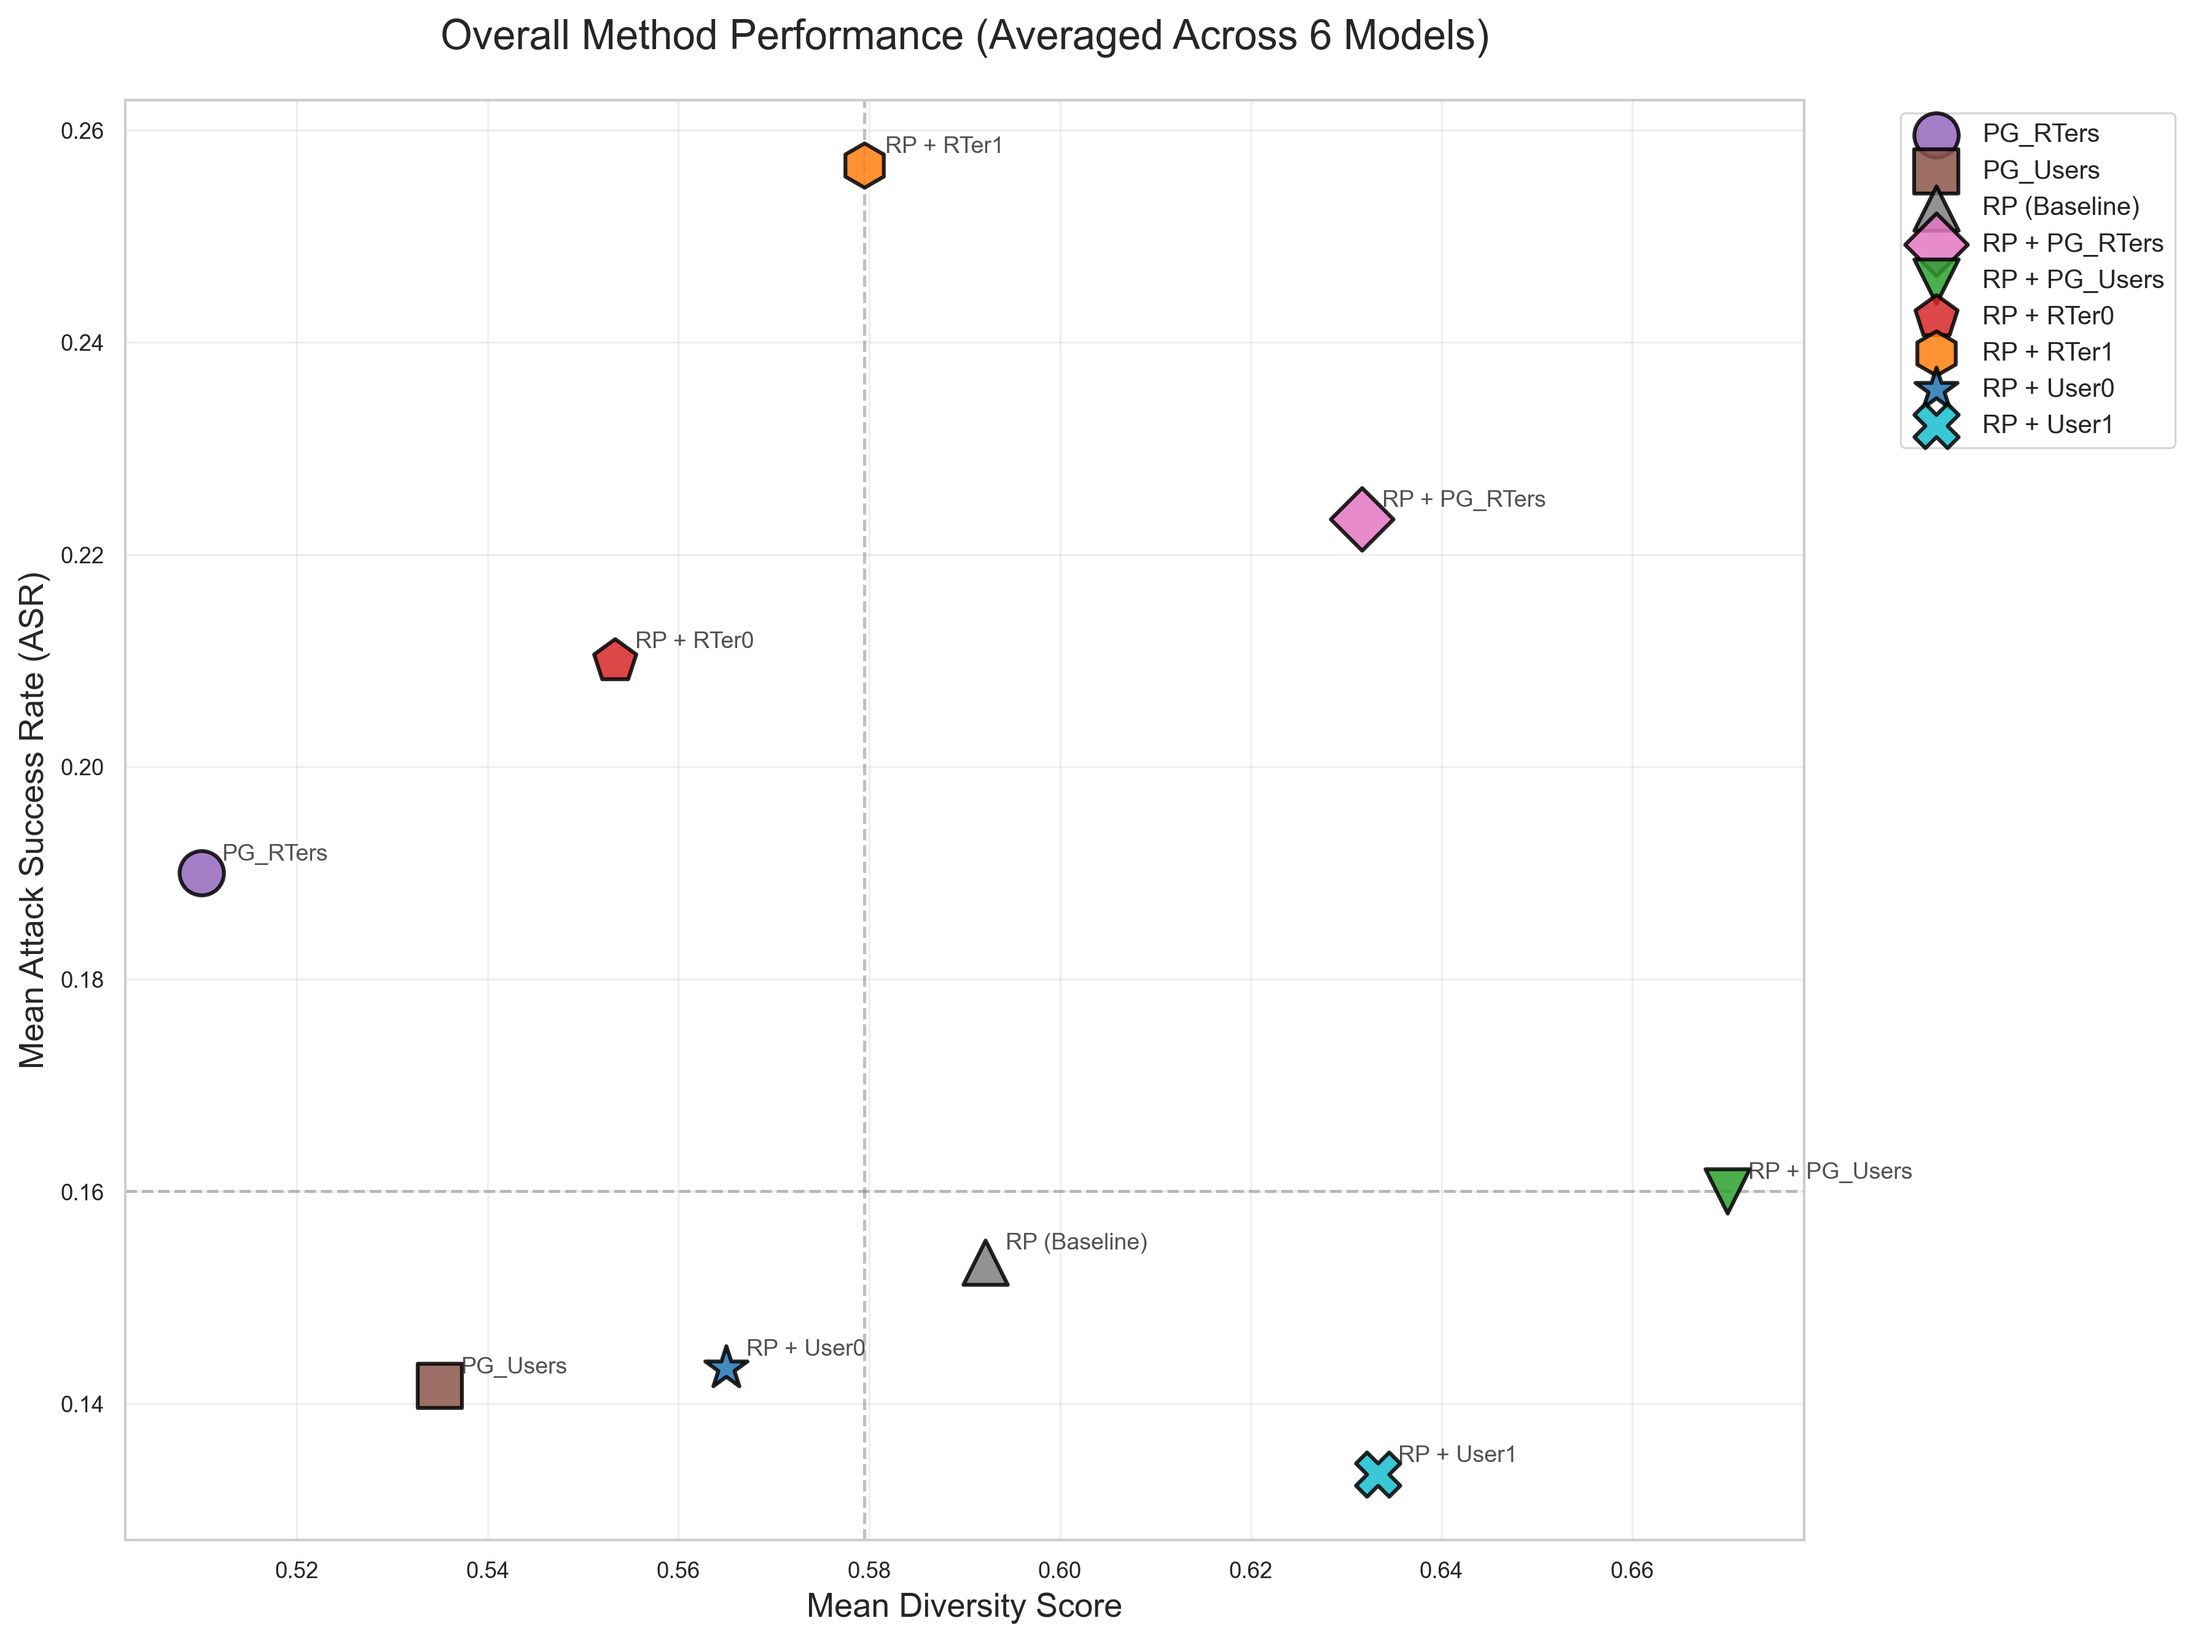
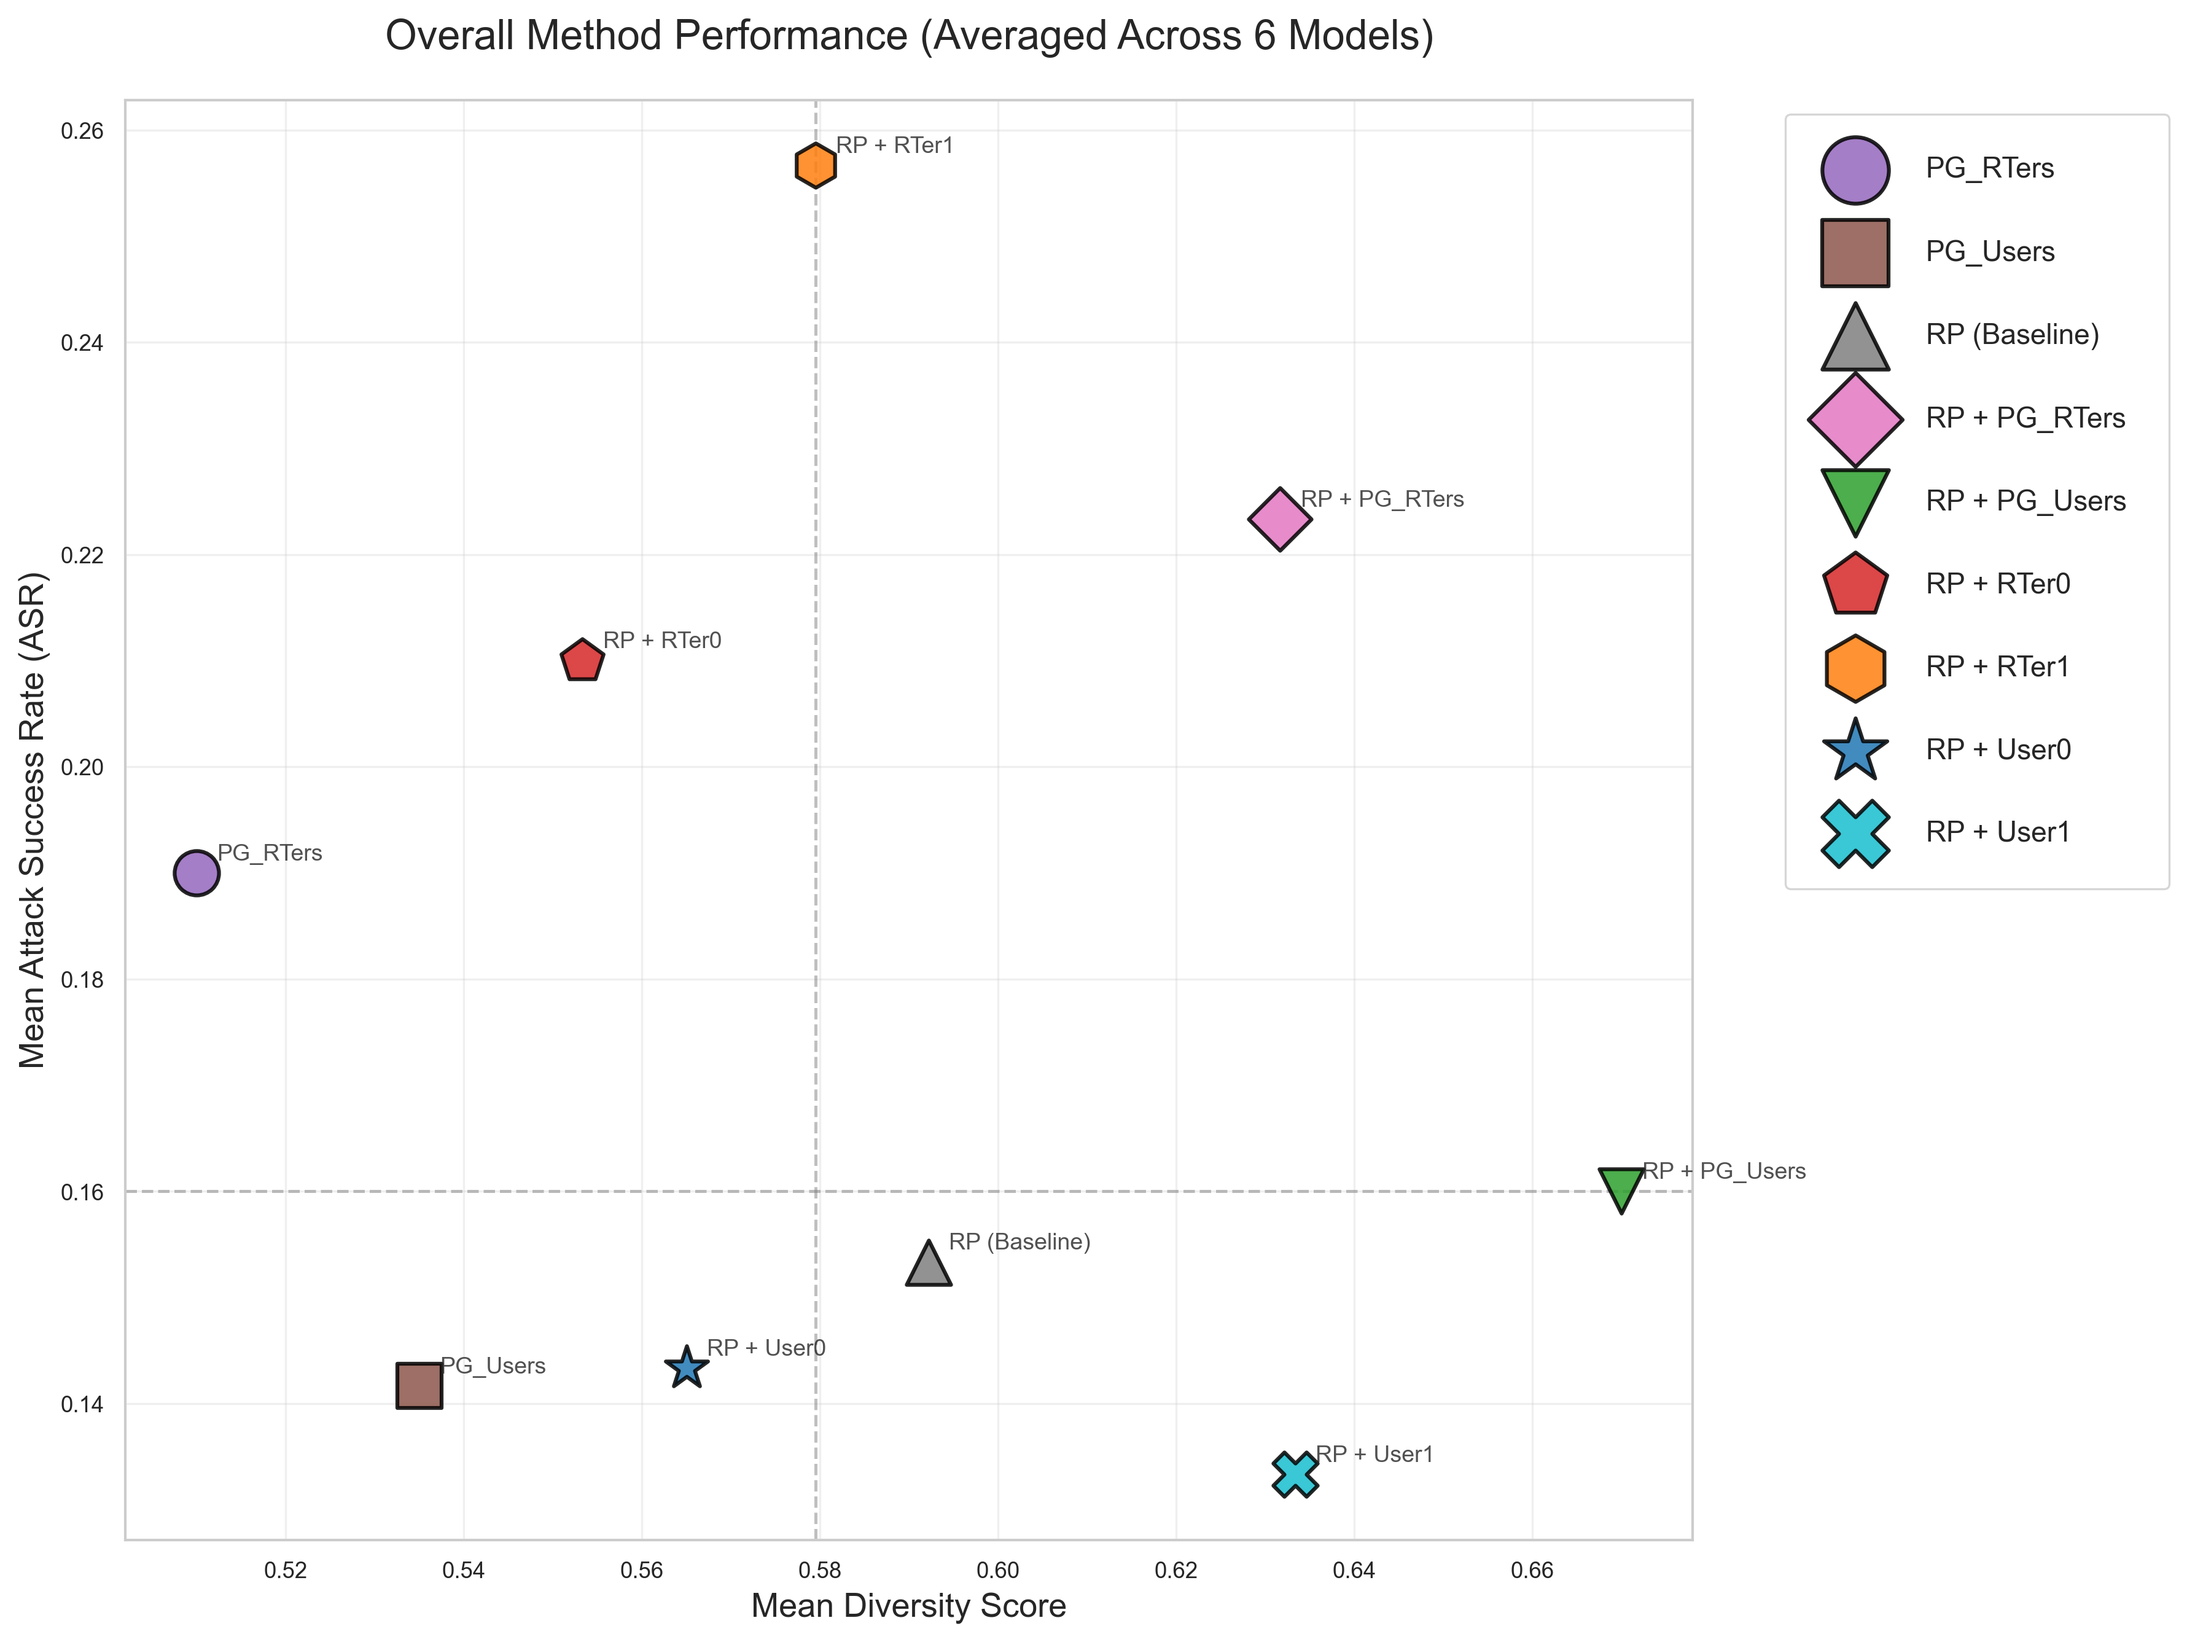
fix: legend too compact

diff --git a/analyze_final_result.py b/analyze_final_result.py
@@ -627,7 +627,8 @@ for _, row in method_means.iterrows():
 ax.set_title('Overall Method Performance (Averaged Across 6 Models)', fontsize=16, pad=20)
 ax.set_xlabel('Mean Diversity Score', fontsize=13)
 ax.set_ylabel('Mean Attack Success Rate (ASR)', fontsize=13)
-ax.legend(bbox_to_anchor=(1.05, 1), loc='upper left', fontsize=10)
+ax.legend(bbox_to_anchor=(1.05, 1), loc='upper left', fontsize=11,
+          labelspacing=2.0, handletextpad=1.5, borderpad=1.5, markerscale=1.5)
 ax.grid(True, alpha=0.3, zorder=1)
 
 # Add quadrant lines at median values for reference
